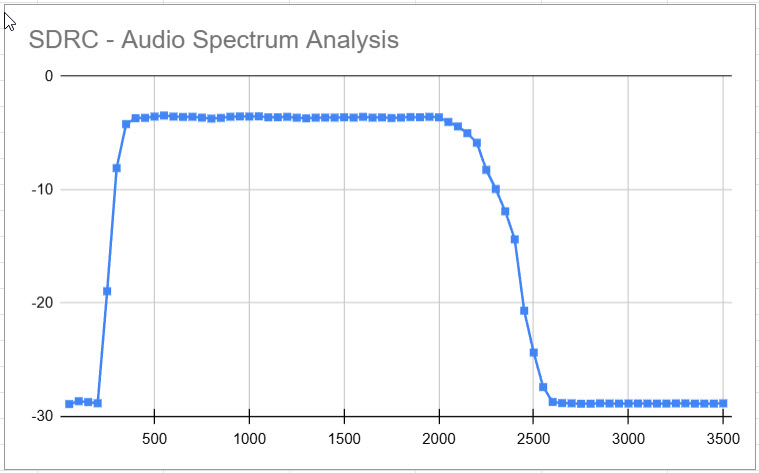
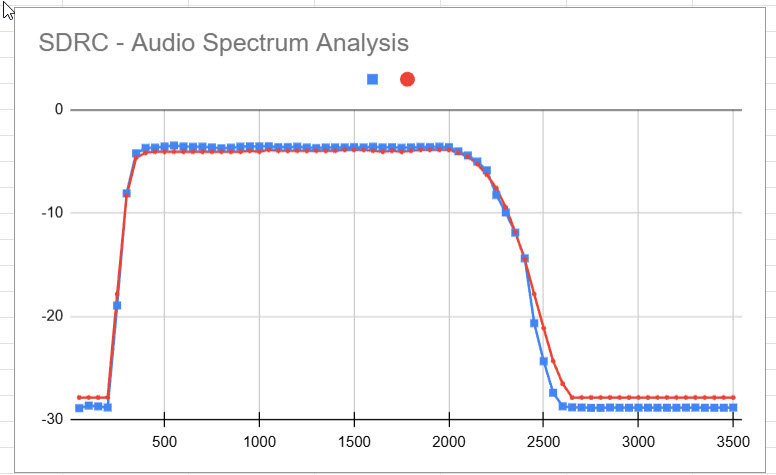
Docs

diff --git a/README.md b/README.md
@@ -689,19 +689,22 @@ More to follow on this topic.
 Characterizing the Audio Passband
 ---------------------------------
 
-Here's the result of a firmware test to make sure the audio pass band looks
-right after all of the various filter, decimations, interpolations, etc. 
+Here's the result of some testing to make sure the audio pass band looks
+right after all of the various conversions, filters, decimations, interpolations, etc. 
 
 A -3dB signal was injected into the audio flow swept from 50Hz to 
 3500Hz. The output level (i.e. the audio being passed to the transmitter) was 
-measured at each frequency. This is a digital-only test to validate the firmware:
-the input signal was sythesized and the output level is computed digitally.
+measured at each frequency and plotted in blue. This is a **digital-only** test 
+to validate the firmware - the input signal was sythesized and the output level is measured digitally by 
+aggregating the RMS value of the outputs.
 
 This is an important test because it validates
 that audio can be passed through the digital flow without distortion.
 
 It's also important to see that received frequencies below 350 Hz (i.e. PL tones) 
-and above 2,500 Hz are not passed to the transmitter.
+and above 2,500 Hz are not passed to the transmitter. (NOTE: It seems like different
+people have different views of where the cut-offs should be exactly. This is one 
+of the great things about DSP/SDR - we can make all of this configurable.)
 
 Here's the output plot:
 
@@ -714,8 +717,14 @@ is around 325Hz.
 * The roll-off on the high end starts at 2,050 Hz with the -3dB point seen 
 at around 2,225Hz. -20dB is seen at 2,500 Hz.
 
-A version of this test that uses analog inputs and outputs will be included
-shortly, but I don't expect the result to be much different.
+A second test was run on the complete hardware/firmware combination by using a 
+signal generator to inject input tones of various frequencies into the 
+audio input port. The audio output port was connected to an osciloscope 
+(along with a 600 ohm termination) and the output magnitude was measured,
+and plotted in red.
+
+As you can see from the chart above, the results of the digital-only (blue) 
+and full end-to-end (red) tests track very closely.
 
 A Handy Analog Loopback Self-Test
 ---------------------------------
@@ -775,6 +784,29 @@ The Link Communications pins are as follows:
 
 *NOTE: I am not using this connector the moment, this is
 just an illustration of a possible setup.*
+
+Notes on dB, Vrms, dBv, and dBu
+-------------------------------
+
+This topic is confusing, but Dan W1DAN helped straighten me out.
+
+> "Audio levels are a hornet's nest. If a 1v p-p sine wave is making all 
+> 1's at the ADC, this would be "0dBFS" or 0dB reference to full scale."
+
+I've followed this convention. Furthermore, I'm assuming what Dan is 
+referencing here is the dBv standard, which takes as a reference level
+a 1Vpp sine signal. All of the dB levels in the SDRC project now follow
+this convention.
+
+Importantly, many of the DSP calculations result in a Vrms value.  For 
+instance, the code that computes the input and/or output levels for the 
+purposes of checking thresholds or displaying a level on the status console.
+In all cases, the Vrms voltage is converted to a Vpp voltage by dividing by
+0.707 **prior** to the dB calculation. 
+
+There is a difference standard called dBu that uses 0.775 Vrms as the standard.
+It seems like a real "VU meter" would favor this standard. I've not implemented
+this yet.
 
 References
 ==========

diff --git a/docs/users.md b/docs/users.md
@@ -192,6 +192,11 @@ second receiver is ignored.
 * 2 - Cross-radio repeat, mixed. When both receivers are active at the same time,
 the audio from both receivers is mixed and transmitted through both transmitters. (Default)
 
+#### set idrequiredint (second)
+
+Sets the number of seconds between mandatory ID transmission.  Default is 
+600 seconds (10 minutes).
+
 #### set cosmode (radio) (mode)
 Controls the carrier detect (COS) mode used by the radio.
 
